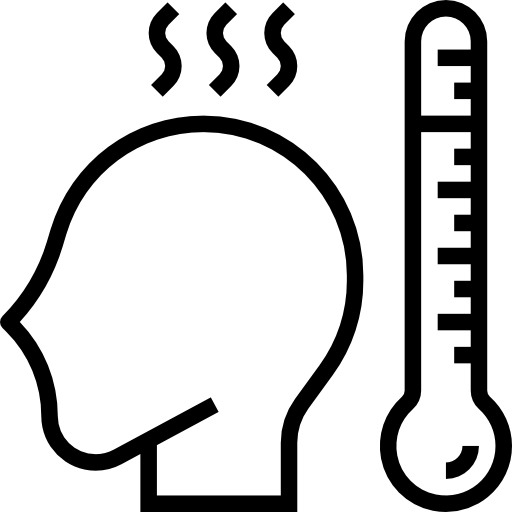
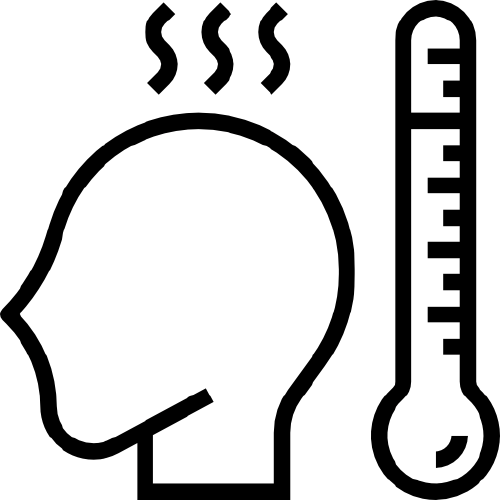
Icones adicionados corretamente

diff --git a/src/views/HomeLogado.vue b/src/views/HomeLogado.vue
@@ -5,11 +5,11 @@
             <hr>
             <p>Aqui estão todas as funcionalidades</p>
         </div>
-        <div class="row row-cols-1 row-cols-md-3 container-fluid">
+        <div class="row row-cols-1 row-cols-md-3">
             <div class="col mb-4">
                 <div class="card bg-light mb-3 text-center">
                     <div class="card-header">
-                        <img src="../assets/img/febre.png" style="width:30%" alt="..." class="img-thumbnail">
+                        <img src="../assets/img/febre.png" alt="..." class="img-thumbnail icone">
                     </div>
                     <div class="card-body">
                         <h6 class="card-title">Pacientes</h6>
@@ -24,9 +24,11 @@
 
             <div class="col mb-4">
                 <div class="card bg-light mb-3 text-center">
-                    <div class="card-header">Pacientes</div>
+                    <div class="card-header">
+                        <img src="../assets/img/dentista.png" alt="..." class="img-thumbnail icone">
+                    </div>
                     <div class="card-body">
-                        <h6 class="card-title">Pacientes</h6>
+                        <h6 class="card-title">Profissionais</h6>
                         <p class="card-text">0</p>
                     </div>
                     <div class="card-footer text-muted">
@@ -37,9 +39,11 @@
         
             <div class="col mb-4">
                 <div class="card bg-light mb-3 text-center">
-                    <div class="card-header">Pacientes</div>
+                    <div class="card-header">
+                        <img src="../assets/img/consulta.png" alt="..." class="img-thumbnail icone">
+                    </div>
                     <div class="card-body">
-                        <h6 class="card-title">Pacientes</h6>
+                        <h6 class="card-title">Consultas</h6>
                         <p class="card-text">0</p>
                     </div>
                     <div class="card-footer text-muted">
@@ -70,6 +74,11 @@ export default {
     }
     #paciente{
         background-color: blueviolet;
+    }
 
+    .icone{
+        width: 30%;
+        background-color: transparent;
+        border: none;
     }
 </style>

diff --git a/src/views/About.vue b/src/views/About.vue
@@ -3,3 +3,7 @@
     <h1>This is an about page</h1>
   </div>
 </template>
+
+<script>
+
+</script>
